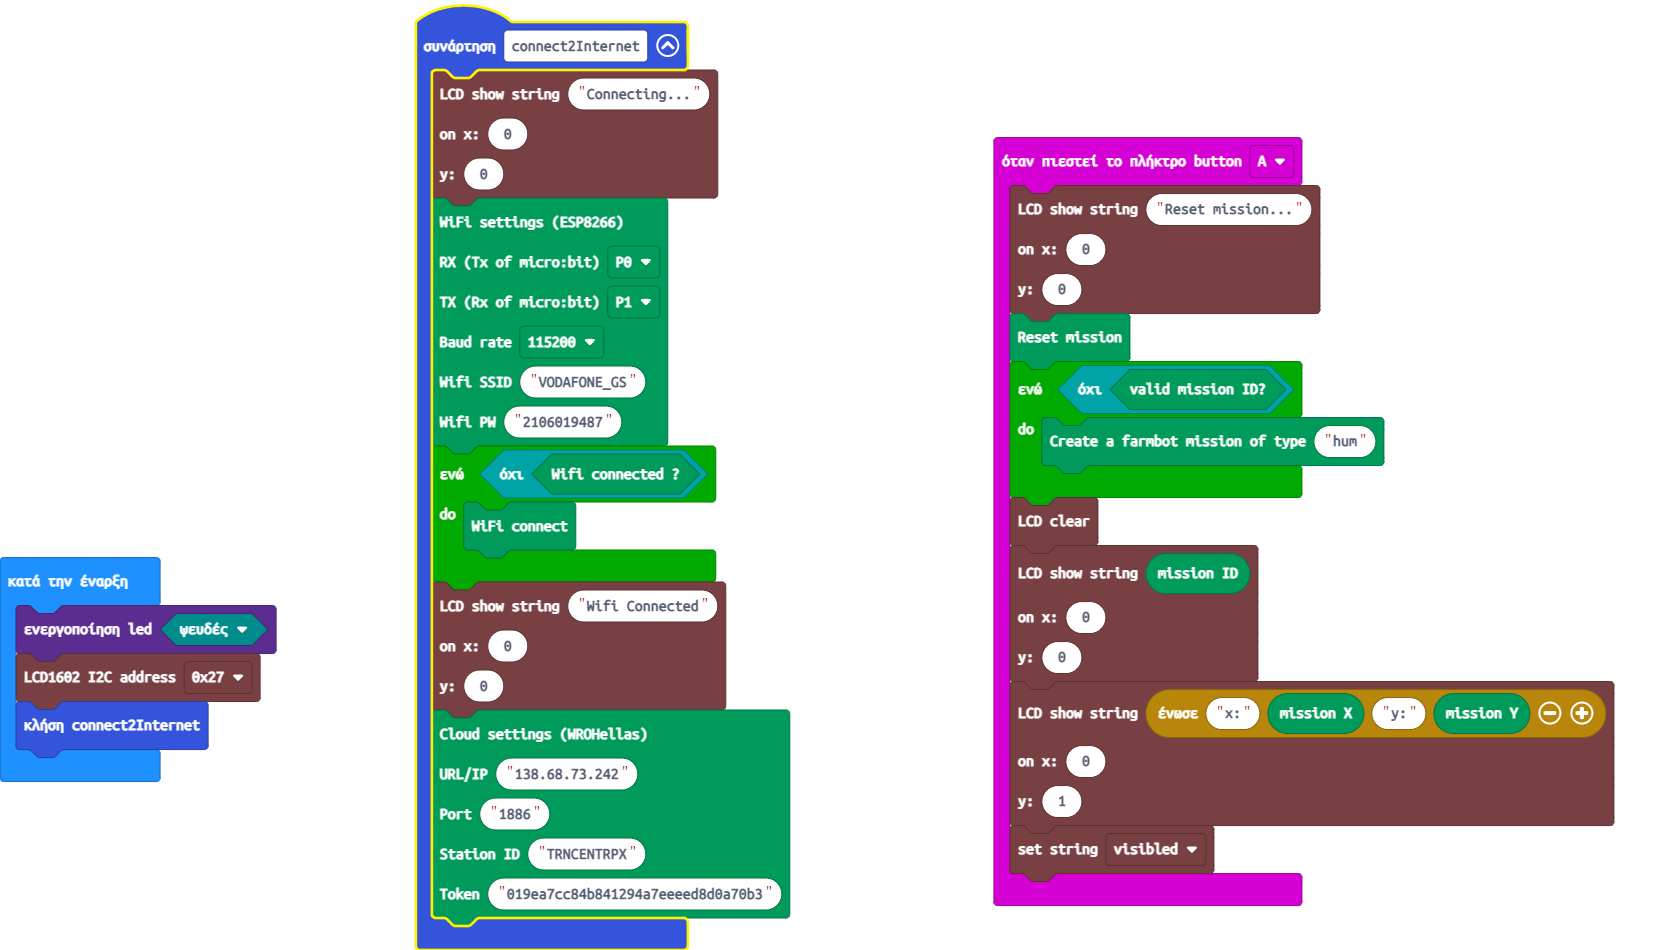
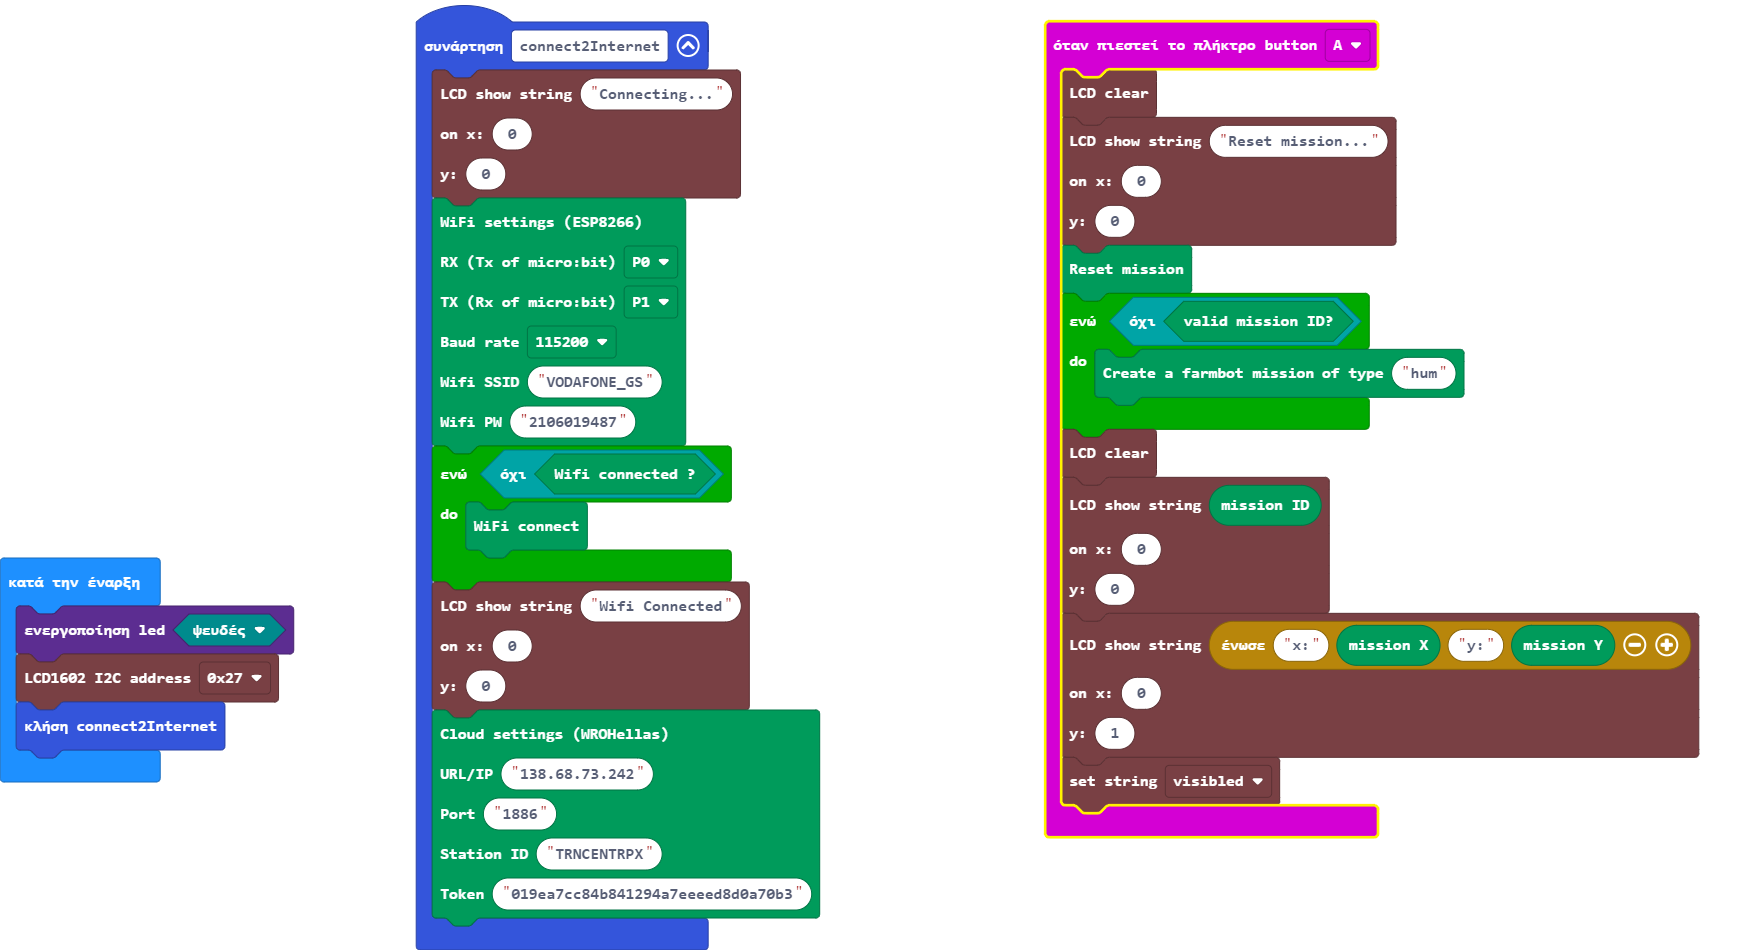
Ενημέρωση main.blocks, main.ts

Changed region(s): [[0.593, 0.0, 0.9988, 0.9768], [0.2185, 0.0, 0.4994, 1.0], [0.0, 0.58, 0.1873, 0.8242]]

diff --git a/main.ts b/main.ts
@@ -1,4 +1,5 @@
 input.onButtonPressed(Button.A, function () {
+    lcd1602.clear()
     lcd1602.putString(
     "Reset mission...",
     0,
